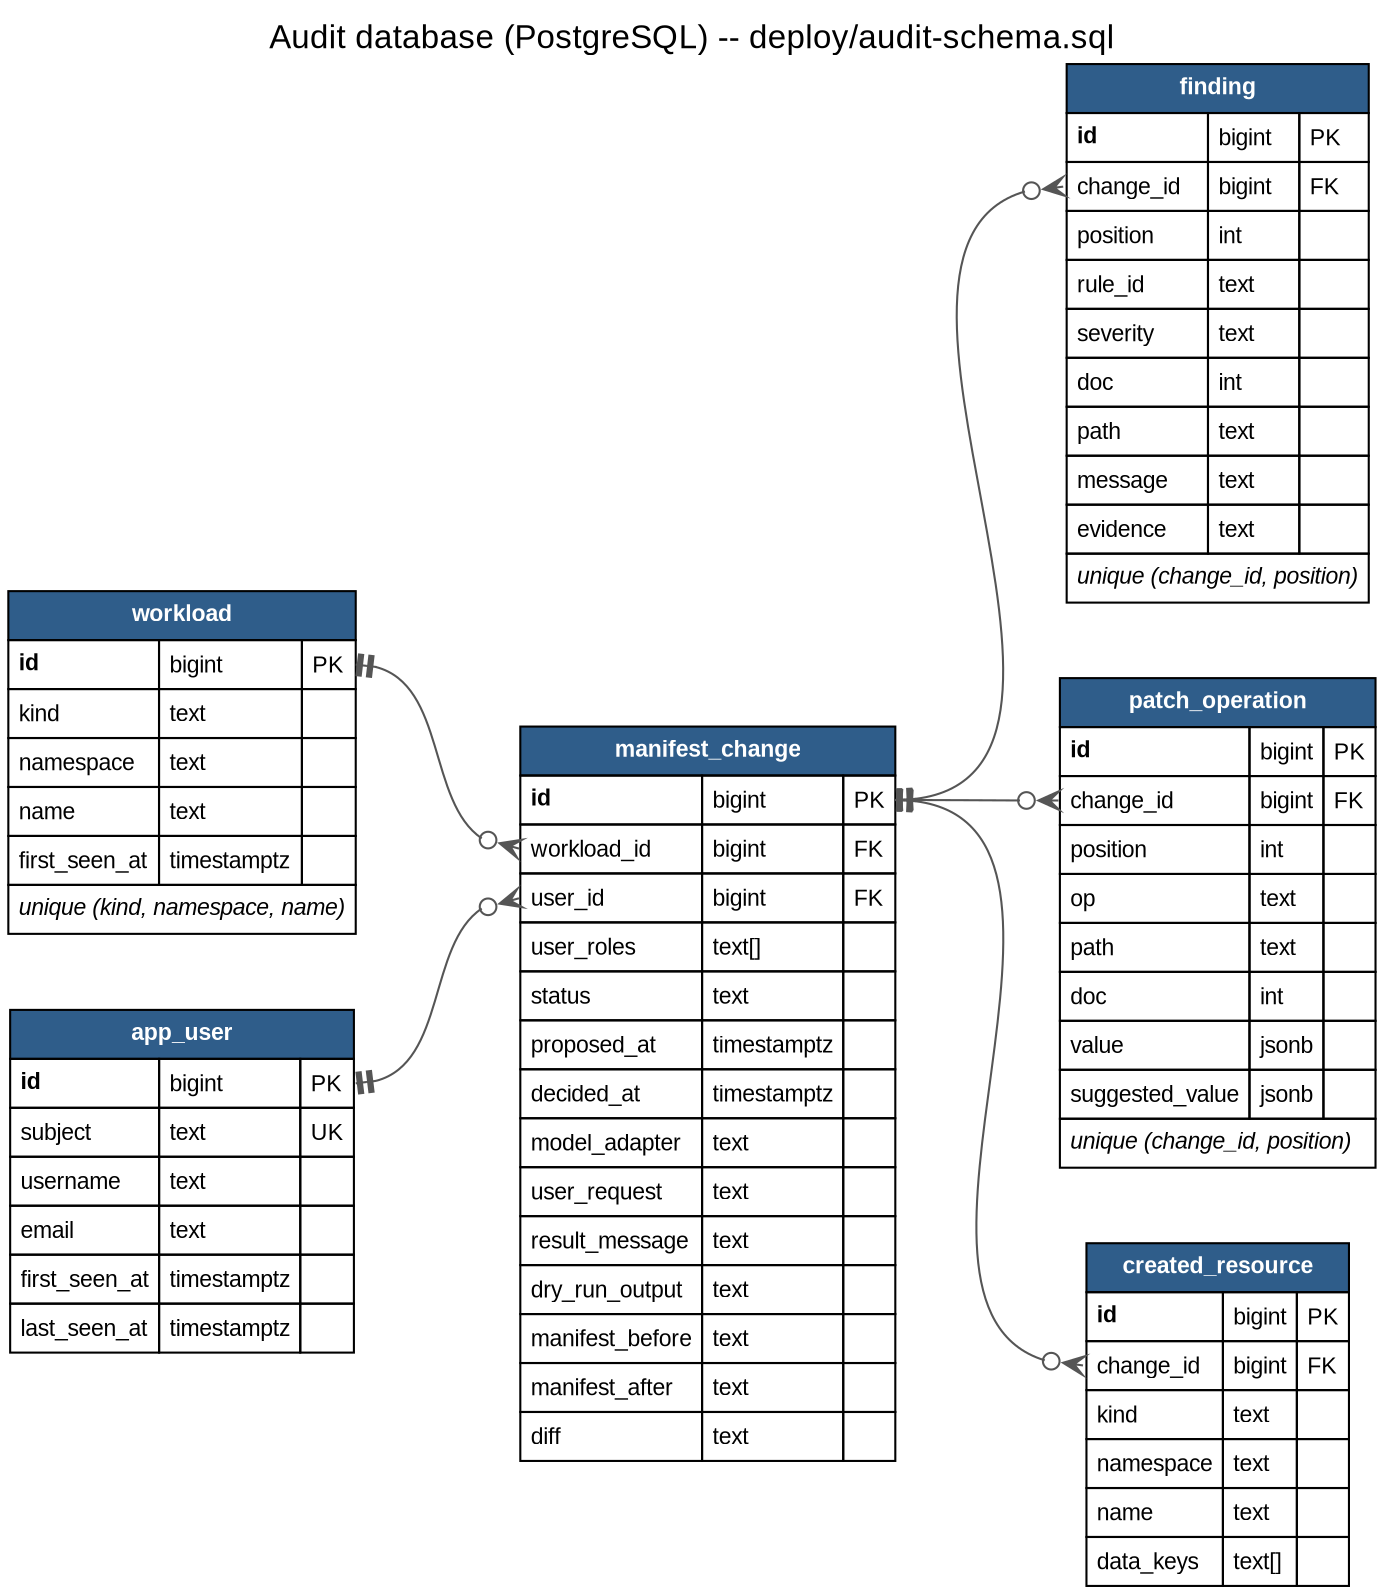
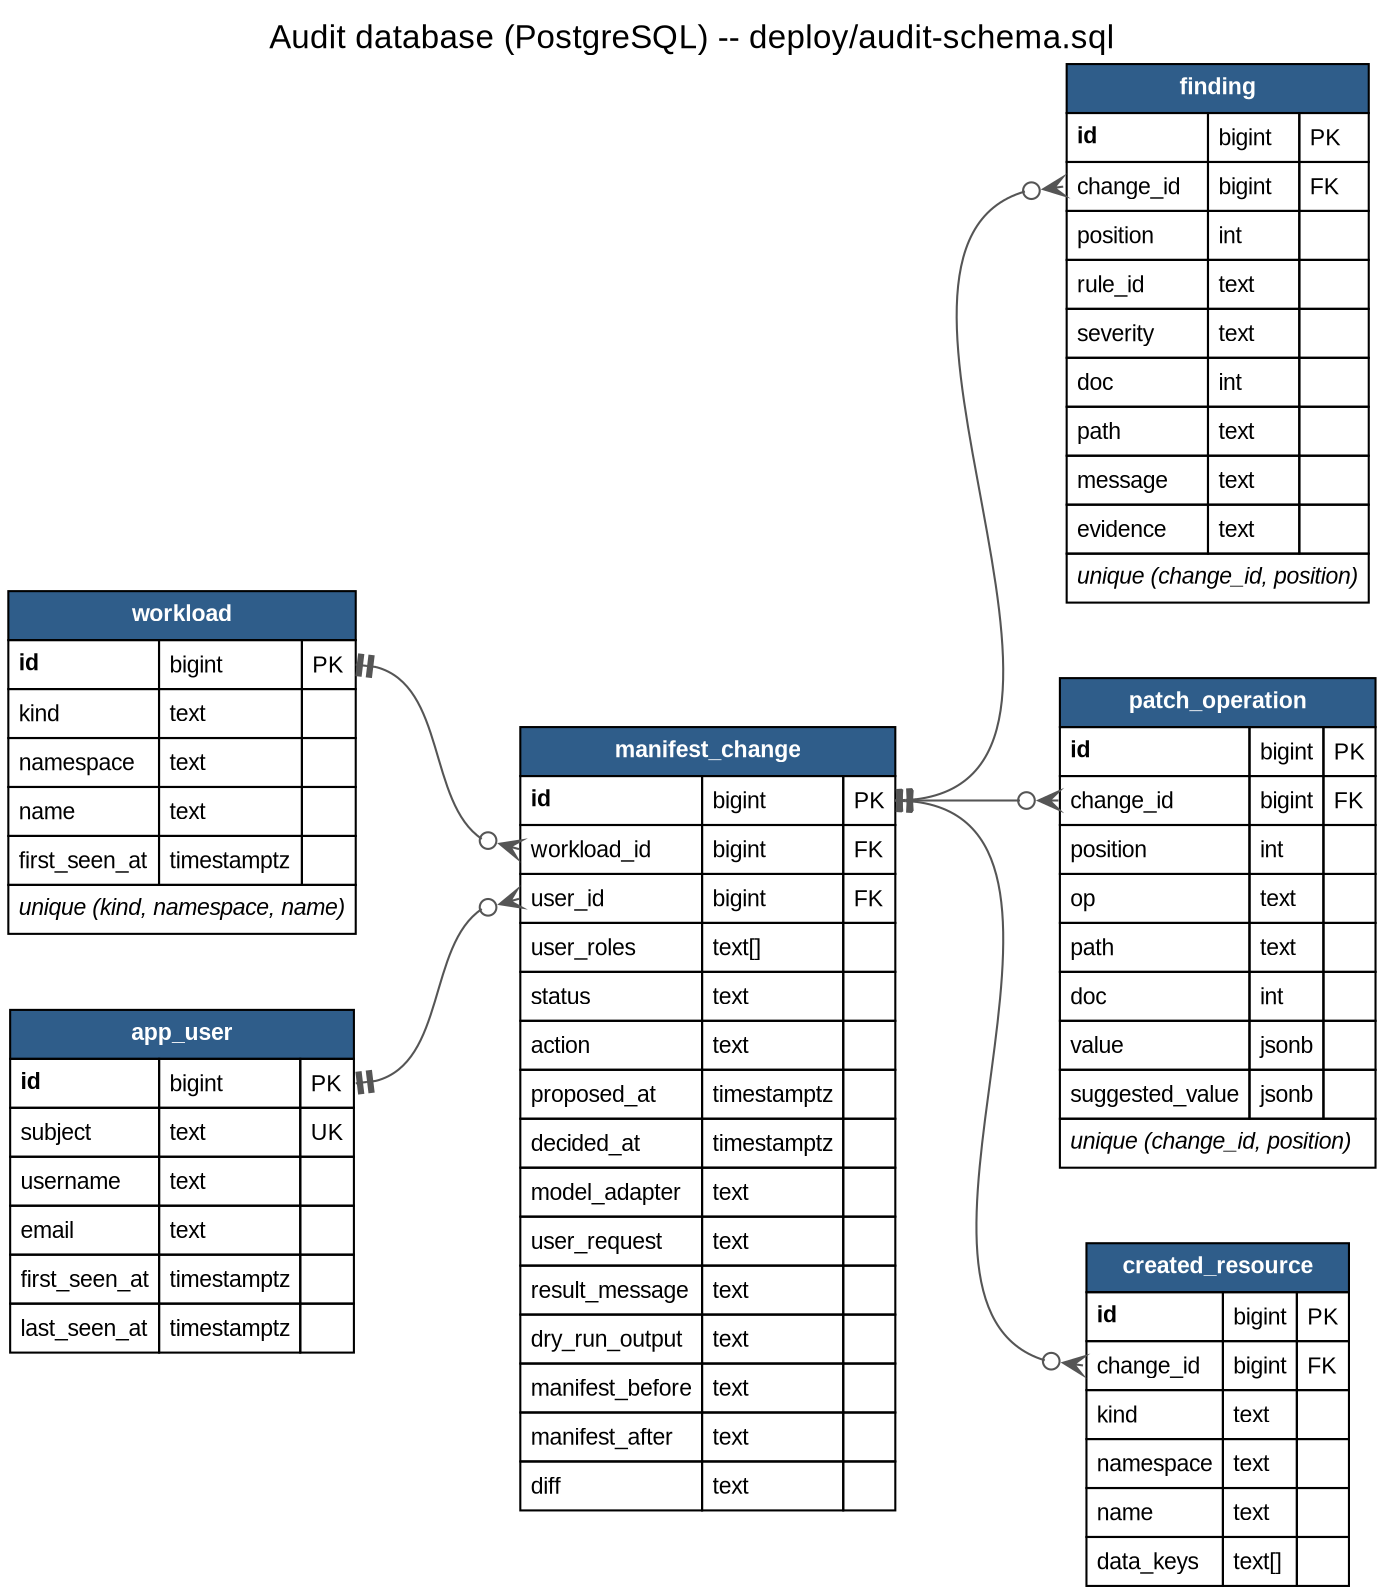
Update ER diagram images and adjust SVG elements for clarity and accuracy
- Updated the PNG version of the audit ER diagram.
- Upgraded the SVG version generated by Graphviz from version 16.0.0 to 16.1.0.
- Made adjustments to the positions and attributes of various elements in the SVG for improved readability and alignment.
- Ensured consistent formatting and styling across all elements in the diagram.

diff --git a/docs/audit-database.md b/docs/audit-database.md
@@ -46,6 +46,7 @@ erDiagram
         bigint user_id FK
         text[] user_roles "the user's roles at decision time"
         text status
+        text action "the tool that proposed it"
         timestamptz proposed_at
         timestamptz decided_at
         text model_adapter "the fine-tuned adapter that audited the manifest"
@@ -98,7 +99,7 @@ Regenerate the diagram after changing the schema with
 |---|---|---|
 | `app_user` | Keycloak user who decided on a change | `subject` is the OIDC `sub` claim (stable across renames); username/e-mail are refreshed on each record |
 | `workload` | resource the agent changed (kind, namespace, name) | unique per (kind, namespace, name): a resource's whole history hangs off one row |
-| `manifest_change` | decided change | `status`: `applied`, `declined`, `rejected` (refused before touching the cluster: unpinned image, failed dry run, not an operator) or `failed` (an apply against the cluster failed); `user_roles` are the roles at decision time |
+| `manifest_change` | decided change | `action`: the tool that proposed it (`fix` = apply_fix, `apply` = apply_yaml_to_cluster, `scale` = scale_resource); `status`: `applied`, `declined`, `rejected` (refused before touching the cluster: unpinned image, failed dry run, not an operator) or `failed` (an apply against the cluster failed); `user_roles` are the roles at decision time |
 | `finding` | problem the fine-tuned model reported for that change | rule, severity, JSON Pointer, masked evidence |
 | `patch_operation` | RFC 6902 operation of the fix | `value` is what was applied; `suggested_value` is the model's value when the user chose another one (image tags) |
 | `created_resource` | resource the fix created (e.g. the Secret a credential moves into) | key names only, never values |
@@ -117,7 +118,8 @@ Regenerate the diagram after changing the schema with
 - **No secrets stored.** Values at the paths of a plaintext credential
   (KSEC-001, found by the project's detectors or reported by the model) are
   masked to their first 4 characters + `***` in both manifests, in the diff
-  and in patch values. Created Secrets are stored as their key names only.
+  and in patch values, and so is every value of a Secret's data. Created
+  Secrets are stored as their key names only.
 - **Nothing is applied unless it can be recorded.** While the database is
   unreachable, Confirm is disabled. The agent refuses to apply and keeps the
   change pending, so it can be confirmed once the database is back. If a
